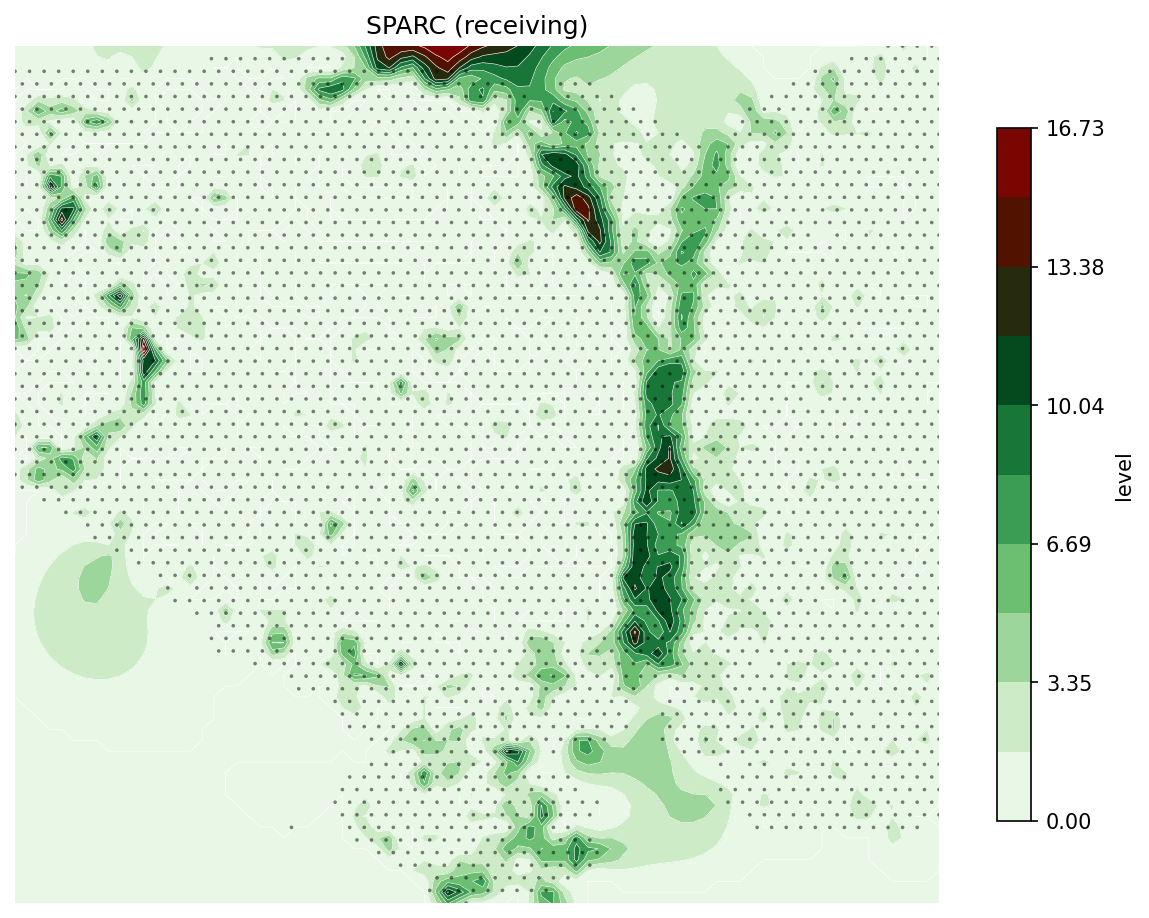
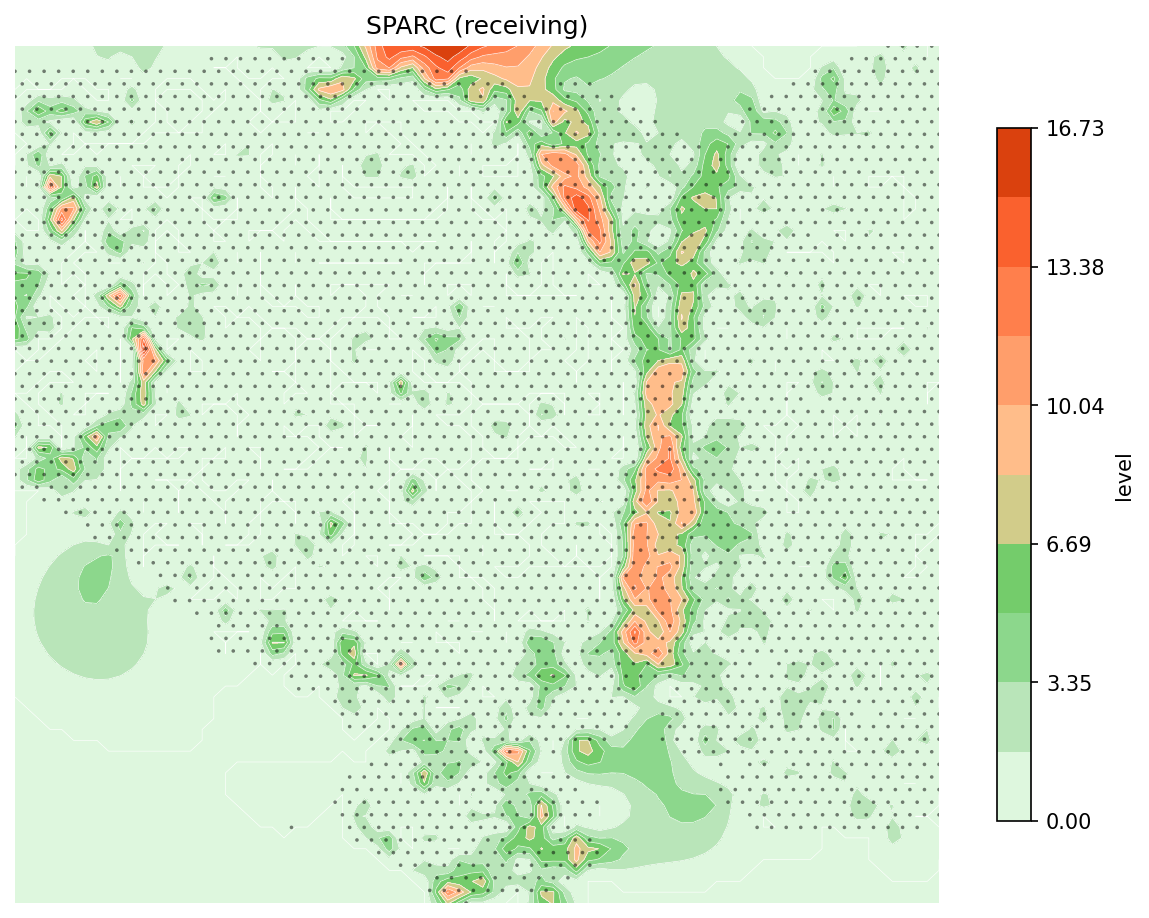
Use light red-green contour colormap and increase arrow scale

diff --git a/spatialgpu/deconvolution/visualization.py b/spatialgpu/deconvolution/visualization.py
@@ -1302,13 +1302,13 @@ _SECACT_LOLLIPOP_COLOR = "#619CFF"
 _SECACT_DOT_CMAP_COLORS = ["#fbbf45", "#ed0345"]
 _SECACT_VELOCITY_COLORS = ["#b8e186", "#de77ae", "#c51b7d"]
 _SECACT_VELOCITY_CONTOUR_COLORS = [
-    "#f7fcf5",
-    "#c7e9c0",
-    "#74c476",
-    "#238b45",
-    "#00441b",
-    "#4a1400",
-    "#8b0000",
+    "#f0fff0",
+    "#b2e2b2",
+    "#66cc66",
+    "#ffcc99",
+    "#ff9966",
+    "#ff6633",
+    "#cc3300",
 ]
 
 
@@ -2151,7 +2151,7 @@ def visualize_secact_velocity(
                 arrow_df["y_change"].values,
                 color=arrow_color,
                 scale_units="xy",
-                scale=0.5,
+                scale=0.3,
                 width=0.003,
                 headwidth=4,
                 headlength=5,
